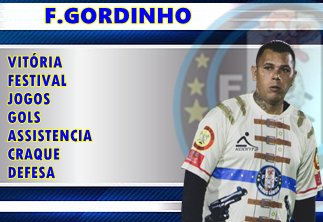
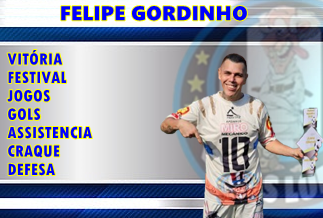
QQQ
QQQQ

diff --git a/elenco.html b/elenco.html
@@ -381,6 +381,31 @@
                                      </div>
                                      </div>
 
+                                      <div class="container">
+                                     <img class="OurO" src="./Elenco/elenco/WANDERLEY.png" alt="">
+                                     <div id="rank">
+                                     <!--viórtia--><h3>2</h3>
+                                     <!--festival--><h3>0</h3>
+                                     <!--jogos--><h3>3</h3>
+                                     <!--gols--><h3>0</h3>
+                                     <!--assistencia--><h3>0</h3>
+                                     <!--craque--><h3>0</h3>
+                                     <!--defesa--><h3>0</h3>
+                                     </div>
+                                     </div>
+                                      <div class="container">
+                                     <img class="OurO" src="./Elenco/elenco/EVERTON.png" alt="">
+                                     <div id="rank">
+                                     <!--viórtia--><h3>1</h3>
+                                     <!--festival--><h3>0</h3>
+                                     <!--jogos--><h3>1</h3>
+                                     <!--gols--><h3>0</h3>
+                                     <!--assistencia--><h3>0</h3>
+                                     <!--craque--><h3>0</h3>
+                                     <!--defesa--><h3>0</h3>
+                                     </div>
+                                     </div>
+
 
                                      <div class="containerTecnico">
                                  
